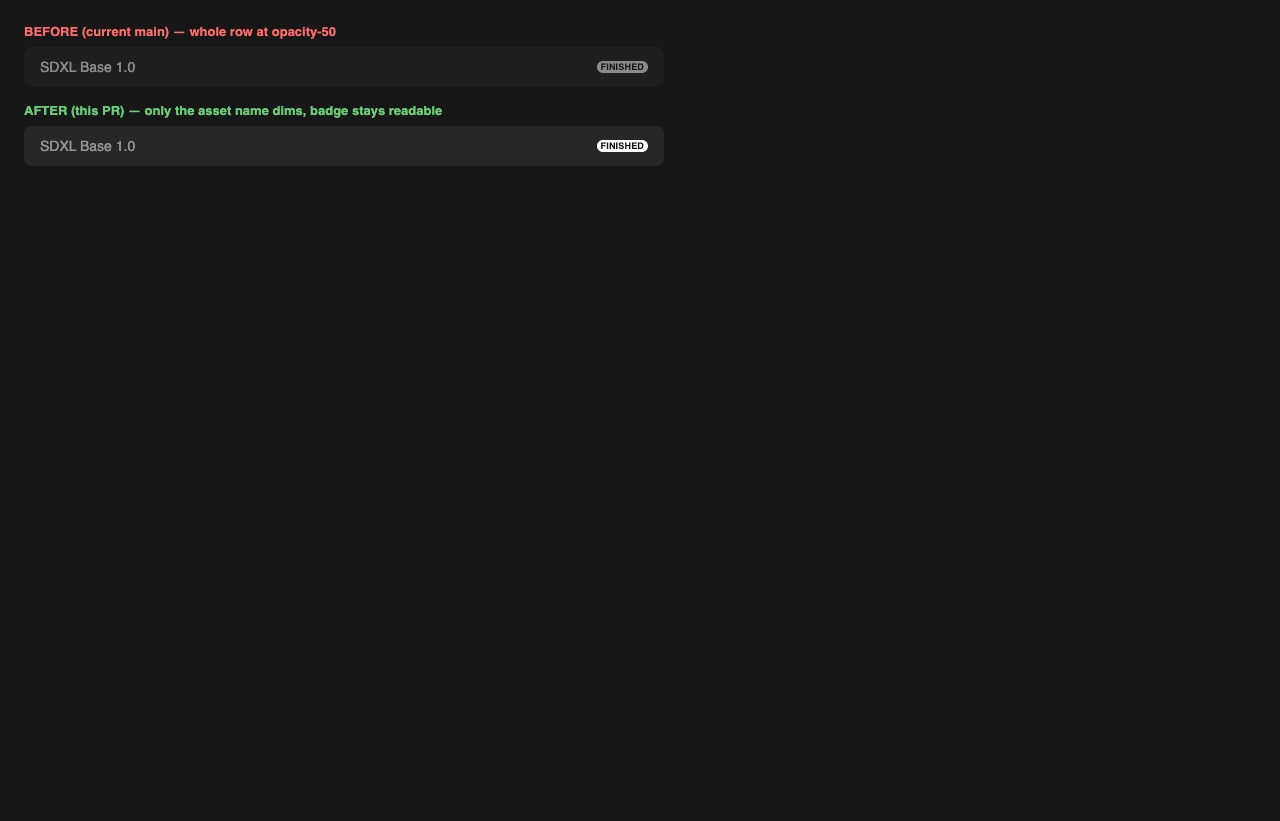
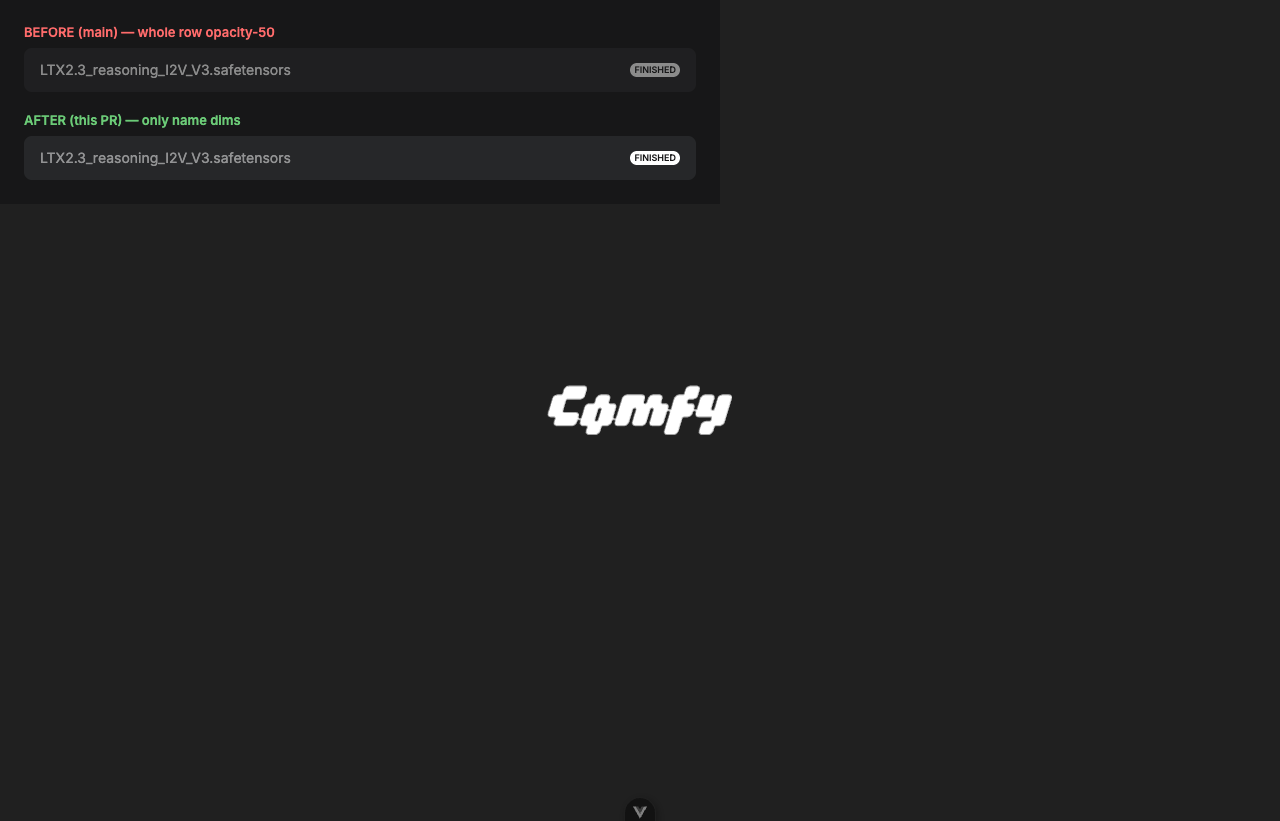
test(ProgressToastItem): assert finished badge stays outside opacity-50 subtree
Regression test for FE-237. Red-green verified: reverting the
ProgressToastItem.vue change makes this test fail because the
badge's closest ancestor .opacity-50 is the row div, not null.

diff --git a/src/components/toast/ProgressToastItem.test.ts b/src/components/toast/ProgressToastItem.test.ts
@@ -1,0 +1,53 @@
+import { render } from '@testing-library/vue'
+import { describe, expect, it } from 'vitest'
+import { createI18n } from 'vue-i18n'
+
+import type { AssetDownload } from '@/stores/assetDownloadStore'
+
+import ProgressToastItem from './ProgressToastItem.vue'
+
+const i18n = createI18n({
+  legacy: false,
+  locale: 'en',
+  messages: {
+    en: {
+      progressToast: {
+        finished: 'Finished',
+        failed: 'Failed',
+        pending: 'Pending'
+      }
+    }
+  }
+})
+
+function completedJob(): AssetDownload {
+  return {
+    taskId: 'task-1',
+    assetId: 'asset-1',
+    assetName: 'controlnet-canny.safetensors',
+    bytesTotal: 100,
+    bytesDownloaded: 100,
+    progress: 1,
+    status: 'completed',
+    lastUpdate: Date.now()
+  }
+}
+
+describe('ProgressToastItem — completed state', () => {
+  it('keeps the finished badge outside the dimmed (opacity-50) subtree', () => {
+    const { container } = render(ProgressToastItem, {
+      props: { job: completedJob() },
+      global: { plugins: [i18n] }
+    })
+
+    const badge = container.querySelector<HTMLElement>(
+      '[class*="rounded-full"]'
+    )
+    expect(badge).not.toBeNull()
+    expect(badge!.closest('.opacity-50')).toBeNull()
+
+    const dimmed = container.querySelector('.opacity-50')
+    expect(dimmed).not.toBeNull()
+    expect(dimmed!.textContent).toContain('controlnet-canny.safetensors')
+  })
+})
